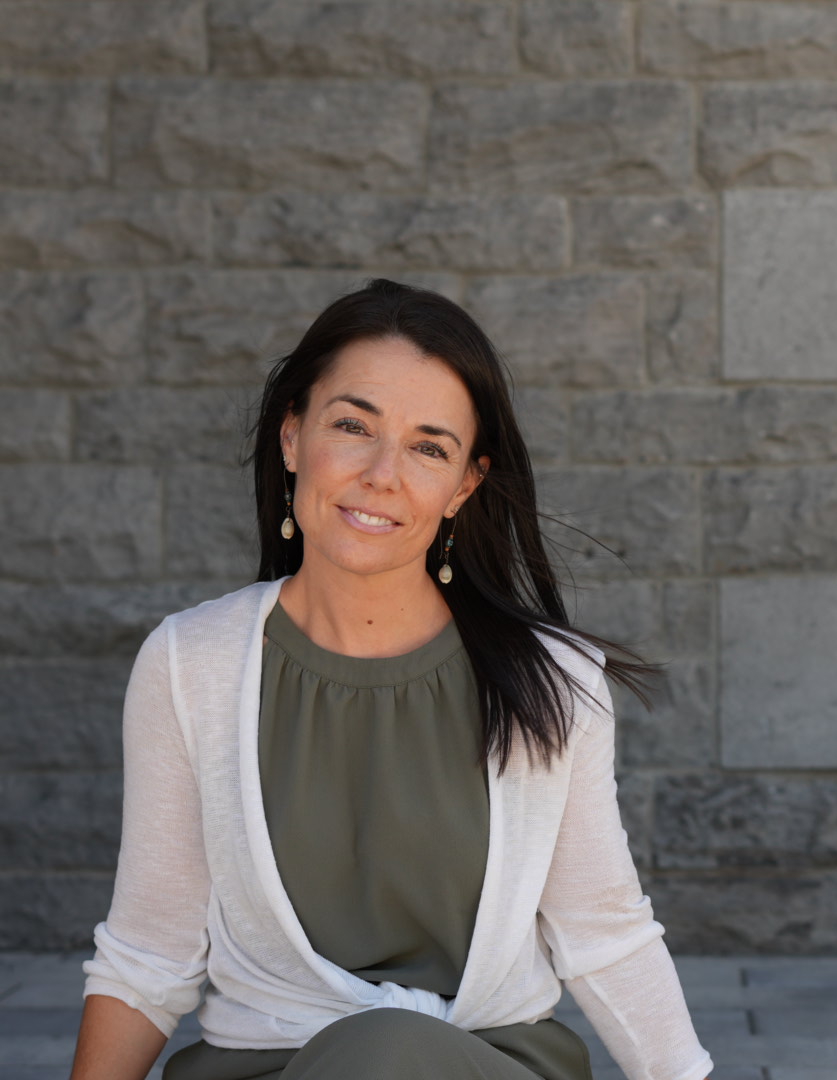
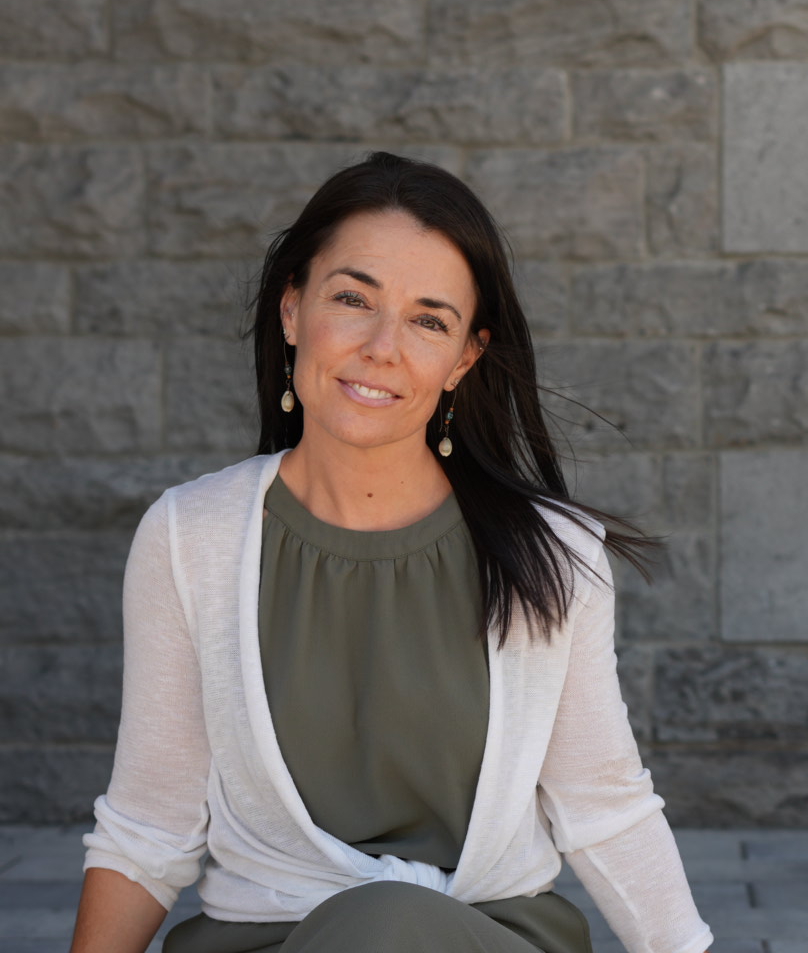
Changes for client

diff --git a/src/App.jsx b/src/App.jsx
@@ -90,7 +90,7 @@ Ce genre de femme qui marche la tête haute. Qui n’écrase jamais personne. Qu
 J'observe et je m’ajuste en conséquence, en restant toujours impeccable.
 
 Je t'aime, Sonia`,
-    image: "/jesuisgrande.avif",
+    image: "/portrait.jpg",
   },
   {
     title: "29 ans, 3 enfants et j’ai peur",
@@ -378,7 +378,7 @@ Je t’encourage bien évidemment à oser faire ce qui te fait vibrer toi aussi,
 Avec tout mon amour & respect,
 
 Sonia Thériault`,
-    image: "/encoremoi41ans.avif",
+    image: "/noel.jpg",
   },
   {
     title: "La dépendance affective",
@@ -690,7 +690,7 @@ Je t’aime même si tu n’y arrives pas tous les jours.
 
 Sonia`,
 
-    image: "/sebastien.avif",
+    image: "/New Project.jpg",
   },
   {
     title: "Je n’ai pas de maison coquette",
@@ -971,7 +971,7 @@ function Hero() {
             </div>
           </div>
           <div className="relative">
-            <div className="aspect-square w-full overflow-hidden rounded-3xl shadow-xl ring-1 ring-black/5">
+            <div className="ml-40 w-64 overflow-hidden rounded-3xl shadow-xl ring-1 ring-black/5">
               <img
                 src="/DSC00134.JPG"
                 alt="Portrait"
@@ -1067,7 +1067,7 @@ function Booking() {
                   />
                   <div>
                     <p className="text-sm font-medium text-taupe">
-                      Membre 16‑6139 — ANN
+                      Membre 16‑6139 — ACNN
                     </p>
                     <a
                       href="https://www.acnn.ca/fr/repertoires/membres/"
@@ -1175,8 +1175,7 @@ function Temoignages() {
       <Container>
         <h2 className="text-3xl font-semibold text-taupe">Témoignages</h2>
         <p className="mt-3 text-dark">
-          Merci pour votre confiance — quelques mots qui me
-          touchehttps://www.facebook.com/profile.php?viewas=100000686899395&id=100088389657450nt.
+          Merci pour votre confiance — quelques mots qui me touche
         </p>
         <div className="mt-8 space-y-4">
           {TESTIMONIALS.map((item, idx) => {
@@ -1344,4 +1343,3 @@ export default function App() {
     </div>
   );
 }
-
